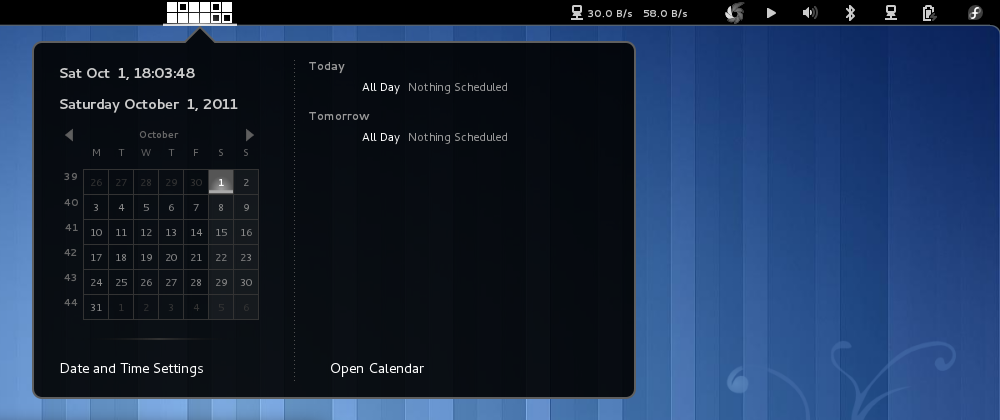
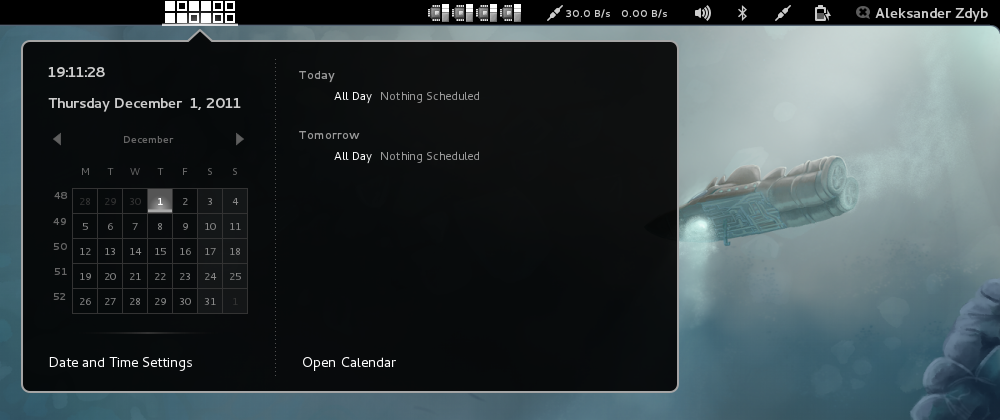
Refactorized and updated for gnome-shell 3.2. Updated screenshots and README

diff --git a/BinaryClock@zdyb.tk/extension.js b/BinaryClock@zdyb.tk/extension.js
@@ -15,16 +15,27 @@
  * along with this program.  If not, see <http://www.gnu.org/licenses/>.
  */
  
+const Main = imports.ui.main;
 const Lang = imports.lang;
 const Mainloop = imports.mainloop;
-const PanelMenu = imports.ui.panelMenu;
+const Panel = imports.ui.panel;
 const St = imports.gi.St;
-const Clutter = imports.gi.Clutter; 
+const Clutter = imports.gi.Clutter;
+const Cairo = imports.cairo;
+const Gio = imports.gi.Gio;
 
 
+const ERROR_LABEL = "---";
 const UPDATE_INTERVAL = 500;
 const LINE_WIDTH = 2;
 const MARGIN = 1;
+
+
+// in org.gnome.desktop.interface
+const CLOCK_FORMAT_KEY        = 'clock-format';
+// in org.gnome.shell.clock
+const CLOCK_SHOW_SECONDS_KEY  = 'show-seconds';
+
 
 function BinaryClock() {
     this._init();
@@ -32,40 +43,49 @@ function BinaryClock() {
 
 BinaryClock.prototype = {
     _init: function() {
-        let now = new Date();
-        this.display_time = [now.getHours(), now.getMinutes()];
+        this.display_time = [-1, -1];
+        this.time_format = "%R:%S"; // Safe fallback
         
-        let date_menu = Main.panel._dateMenu;
-        this._clock = date_menu._clock;
+        this.date_menu = Main.panel._dateMenu;
+        this.orig_clock = this.date_menu._clock;
         this.binary_clock = new St.DrawingArea();
-        this.date = new St.Label({ style_class: "datemenu-date-label", text: this._clock.get_text() });
+        this.time_label = new St.Label({ style_class: "datemenu-date-label", text: ERROR_LABEL});
         
-        this.bs = Math.floor(Main.panel.button.height/2)-2*MARGIN;  // Box size
+        this.bs = Math.floor(Panel.PANEL_ICON_SIZE - 2*MARGIN - LINE_WIDTH)/2;  // Box size
+        this.binary_clock.set_width(6*this.bs + 5*LINE_WIDTH);
+        this.binary_clock.set_height(Panel.PANEL_ICON_SIZE-2*MARGIN);
         
-        this.binary_clock.set_width(MARGIN*2 + (this.bs + MARGIN + LINE_WIDTH)*6);
-        this.binary_clock.set_height(Main.panel.button.height);
-        date_menu.actor.add_actor(this.binary_clock);
         
-        this.binary_clock.connect("repaint", Lang.bind(this, this.paint_clock));
-        this.binary_clock.queue_repaint();
+        this.desktop_settings = new Gio.Settings({ schema: "org.gnome.desktop.interface" });
+        this.clock_settings = new Gio.Settings({ schema: "org.gnome.shell.clock" });
+        this.desktop_settings.connect("changed", Lang.bind(this, this.update_format));
+        this.clock_settings.connect("changed", Lang.bind(this, this.update_format));
+        this.update_format();
         
-        let children = date_menu.menu.box.get_children();
-        for each(let c in children) {
-            if(c.name == "calendarArea") {
-                c.get_children()[0].insert_actor(this.date, 0);
-                break;
-            }
-        }
+        this.repaint = this.binary_clock.connect("repaint", Lang.bind(this, this.paint_clock));
     },
     
     Run: function() {
+        this.run = true;
+        this.on_timeout();
         Mainloop.timeout_add(UPDATE_INTERVAL, Lang.bind(this, this.on_timeout));  
     },
     
-    on_timeout: function() {
-        this.date.set_text(this._clock.get_text());
+    update_format: function() {
+        let clock_format = this.desktop_settings.get_string(CLOCK_FORMAT_KEY);
+        let show_seconds = this.clock_settings.get_boolean(CLOCK_SHOW_SECONDS_KEY);
         
+        if (clock_format == "24h") this.time_format = "%R";
+        else this.time_format = "%l:%M";
+        
+        if (show_seconds) this.time_format += ":%S";
+        
+        if (clock_format != "24h") this.time_format += " %p";
+    },
+    
+    on_timeout: function() {
         let now = new Date();
+        this.time_label.set_text(now.toLocaleFormat(this.time_format))
         let display_time = [now.getHours(), now.getMinutes()];
         
         if ((this.display_time[0] != display_time[0]) || (this.display_time[1] != display_time[1])) {
@@ -80,23 +100,69 @@ BinaryClock.prototype = {
         let cr = area.get_context();
         let theme_node = this.binary_clock.get_theme_node();
         
+        let area_height = area.get_height();
+        let area_width = area.get_width();
+        
+        // Draw background
         Clutter.cairo_set_source_color(cr, theme_node.get_foreground_color());
-        for (let p in cr) global.log(p);
         cr.setLineWidth(LINE_WIDTH);
-                
+        cr.rectangle(0, 0, area_width, area_height);
+        cr.fill();
+        
+        // Draw grid
+        cr.setOperator(Cairo.Operator.CLEAR);
+        cr.moveTo(0, area_height/2);
+        cr.lineTo(area_width, area_height/2);
+        cr.stroke();
+        
+        // Draw dots
         for (let p in this.display_time) {
             for (let i=0; i<6; ++i) {
-                cr.rectangle(MARGIN + LINE_WIDTH/2 + (this.bs + MARGIN + LINE_WIDTH)*i, LINE_WIDTH/2 + (this.bs + MARGIN + LINE_WIDTH)*p, this.bs, this.bs);
-                cr.stroke();
-                if (!(this.display_time[p] & (1 << (5-i)))) {
-                    cr.rectangle(MARGIN + LINE_WIDTH/2 + (this.bs + MARGIN + LINE_WIDTH)*i, + LINE_WIDTH/2 + (this.bs + MARGIN + LINE_WIDTH)*p, this.bs, this.bs);
+                cr.moveTo((i+1)*(this.bs + LINE_WIDTH/2) + i*(LINE_WIDTH/2), 0);
+                cr.lineTo((i+1)*(this.bs + LINE_WIDTH/2) + i*(LINE_WIDTH/2), area_height)
+                cr.stroke();    
+                if ((this.display_time[p] & (1 << (5-i)))) {
+                    cr.rectangle(LINE_WIDTH + (this.bs + LINE_WIDTH)*i, LINE_WIDTH + (this.bs + LINE_WIDTH)*p, this.bs-2*LINE_WIDTH, this.bs-2*LINE_WIDTH);
                     cr.fill();
                 }
+            }
+        }
+        
+    },
+    
+    enable: function() {
+        this.date_menu.actor.remove_actor(this.orig_clock);
+        this.date_menu.actor.add_actor(this.binary_clock);
+        this.date_menu.actor.add_style_class_name("binary-clock");
+        
+        this.binary_clock.queue_repaint();
+        
+        let children = this.date_menu.menu.box.get_children();
+        for each(let c in children) {
+            if(c.name == "calendarArea") {
+                c.get_children()[0].insert_actor(this.time_label, 0);
+                break;
+            }
+        }
+        this.Run();
+    },
+    
+    disable: function() {
+        this.run = false;
+        this.date_menu.actor.remove_style_class_name("binary-clock");
+        this.date_menu.actor.remove_actor(this.binary_clock);
+        this.date_menu.actor.add_actor(this.orig_clock);
+        
+        let children = this.date_menu.menu.box.get_children();
+        for each(let c in children) {
+            if(c.name == "calendarArea") {
+                c.get_children()[0].remove_actor(this.time_label);
+                break;
             }
         }
     }
 }
 
-function main() {
-   (new BinaryClock()).Run();
+function init() {
+    return new BinaryClock();
 }

diff --git a/BinaryClock@zdyb.tk/stylesheet.css b/BinaryClock@zdyb.tk/stylesheet.css
@@ -1,0 +1,3 @@
+.binary-clock {
+    padding-top: 1px;
+}

diff --git a/README.rst b/README.rst
@@ -10,10 +10,10 @@ What it looks like?
 
 Everybody loves screenshots, right?
 
-.. image:: http://img191.imageshack.us/img191/1846/binaryclock.png
+.. image:: http://img687.imageshack.us/img687/1846/binaryclock.png
   :alt: BinaryClock
 
-.. image:: http://img5.imageshack.us/img5/5193/binaryclockmenu.png
+.. image:: http://img805.imageshack.us/img805/5193/binaryclockmenu.png
   :alt: BinaryClock (menu)
 
 
@@ -40,6 +40,9 @@ or::
 
   $ cp BinaryClock\@zdyb.tk ~/.local/share/gnome-shell/extensions/
 
+Please do not forget to enable the newly installed extension using for example gnome-tweak-tool_.
+
+.. _gnome-tweak-tool: http://live.gnome.org/GnomeTweakTool
 
 License
 =======
